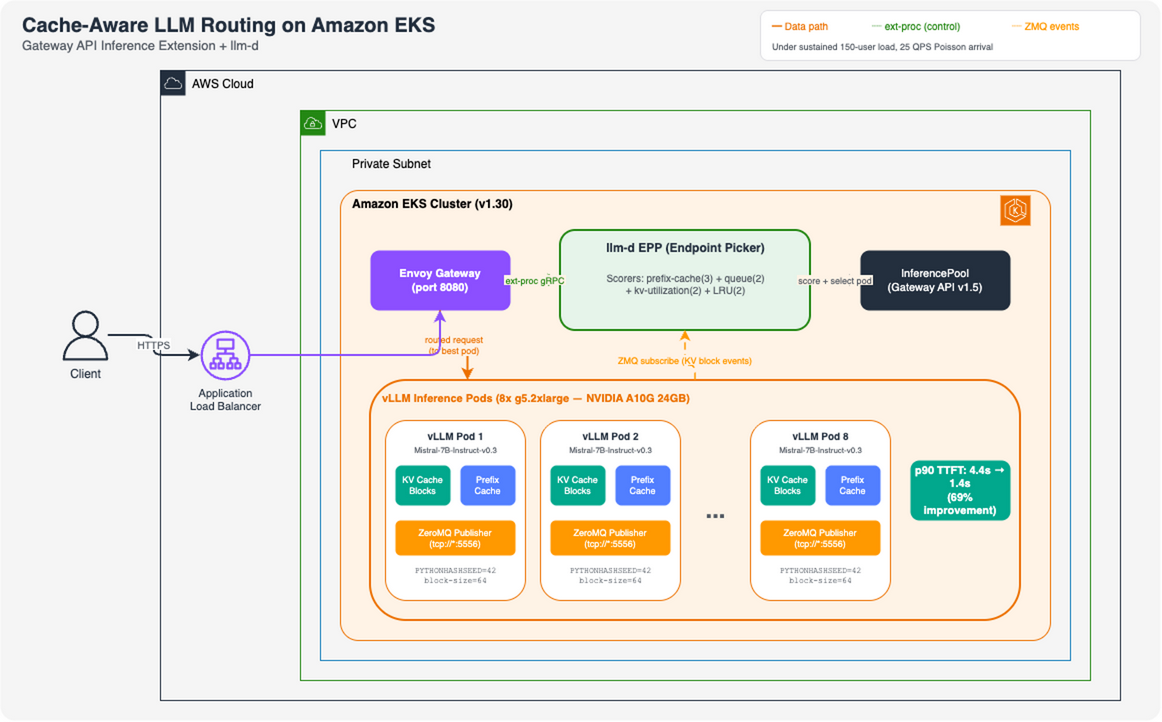
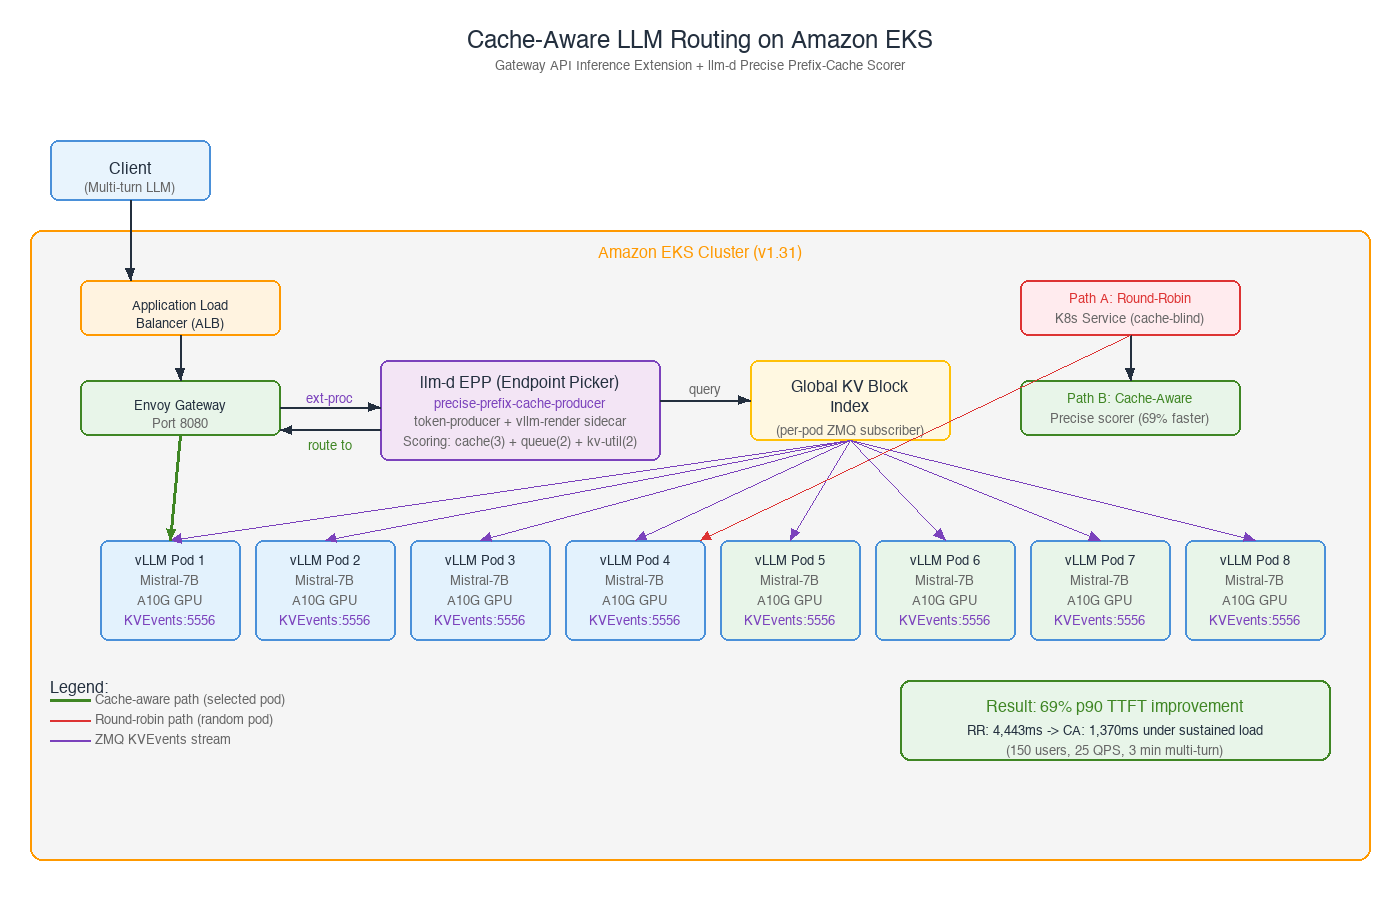
Fix remaining minor issues: kubectl v1.31+, drawio v1.31, KMS in one-command deploy

diff --git a/README.md b/README.md
@@ -94,7 +94,7 @@ Client
 
 - AWS account with permissions for [Amazon EKS](https://aws.amazon.com/eks/), [Amazon EC2](https://aws.amazon.com/ec2/) (GPU instances), and [Elastic Load Balancing](https://aws.amazon.com/elasticloadbalancing/)
 - [AWS CLI v2](https://docs.aws.amazon.com/cli/latest/userguide/getting-started-install.html) configured
-- [kubectl](https://kubernetes.io/docs/tasks/tools/) v1.30+
+- [kubectl](https://kubernetes.io/docs/tasks/tools/) v1.31+
 - [Helm](https://helm.sh/docs/intro/install/) v3.12+
 - [eksctl](https://eksctl.io/installation/) v0.170+
 - A [Hugging Face token](https://huggingface.co/settings/tokens) with access to `mistralai/Mistral-7B-Instruct-v0.3`
@@ -106,6 +106,7 @@ Client
 
 ```bash
 export HF_TOKEN=<your-huggingface-token>
+export KMS_KEY_ARN=<your-kms-key-arn>
 ./scripts/setup.sh
 ```
 